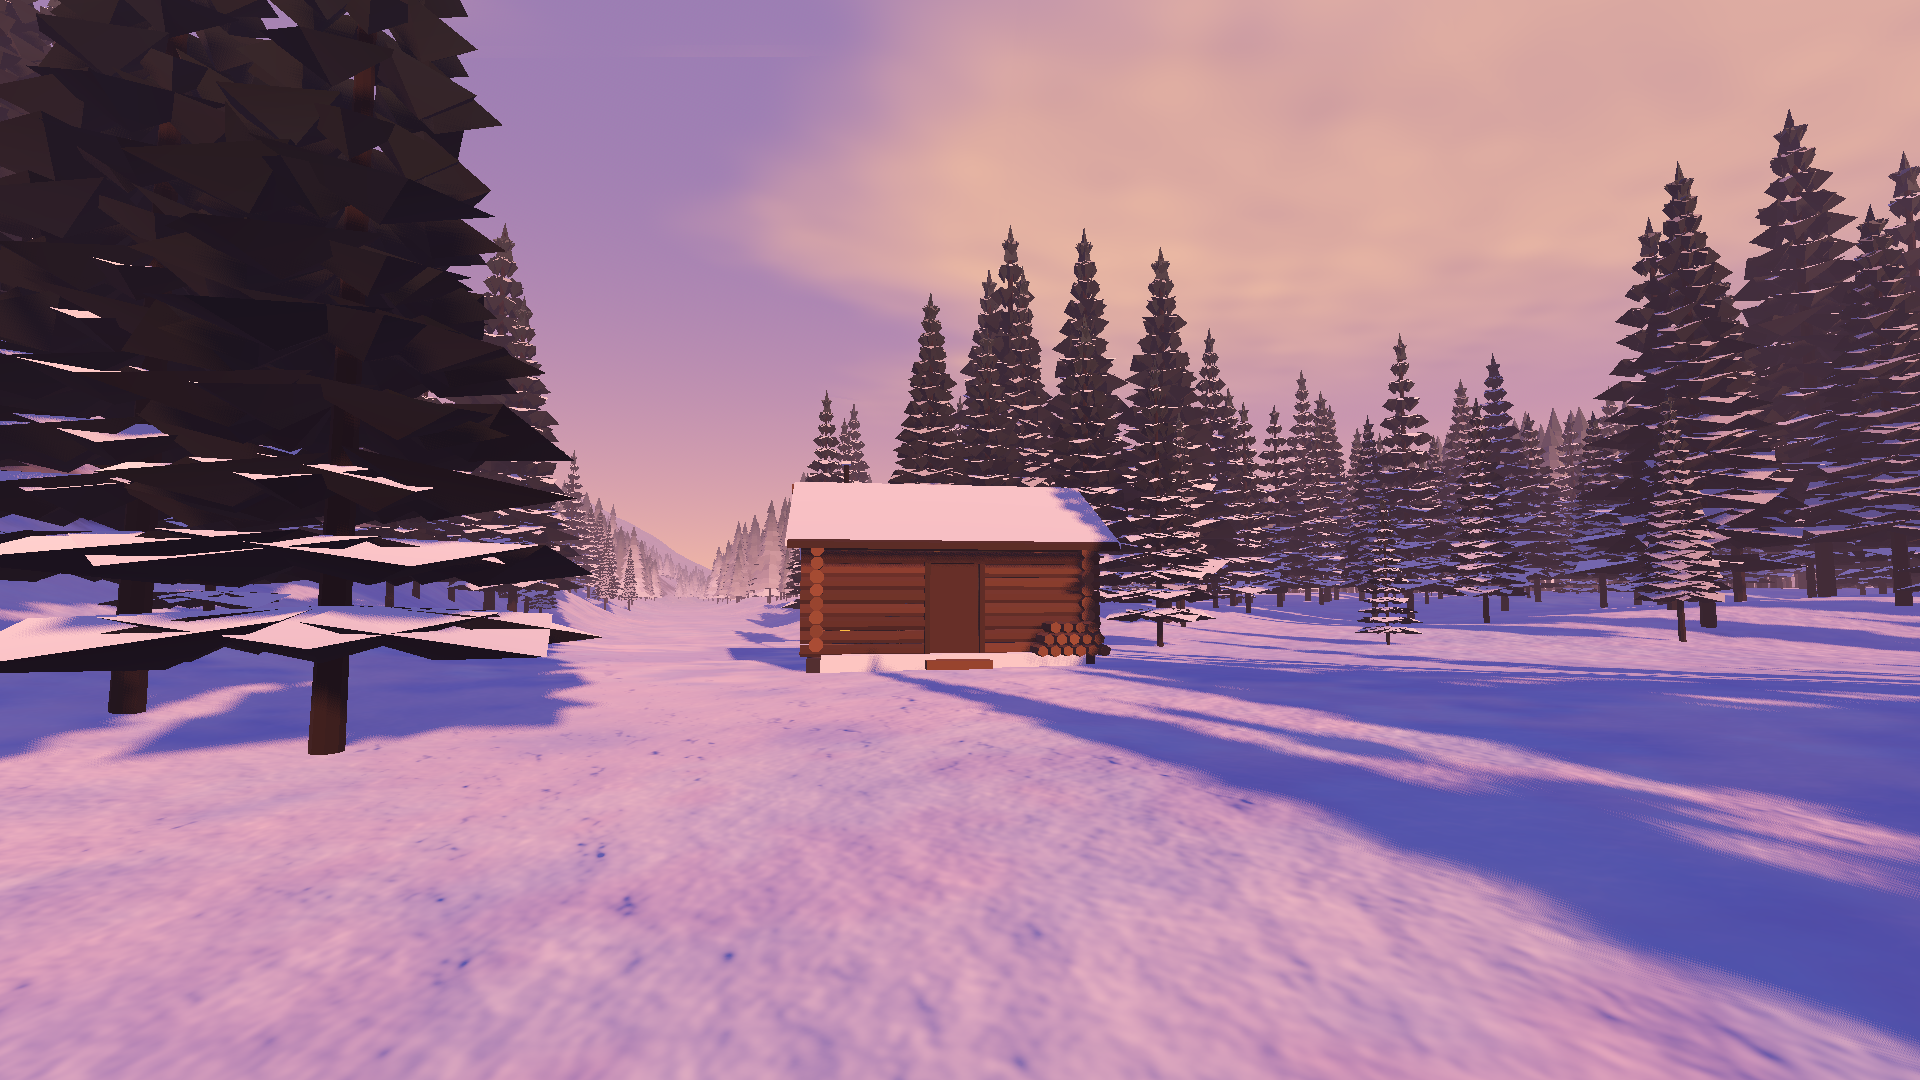
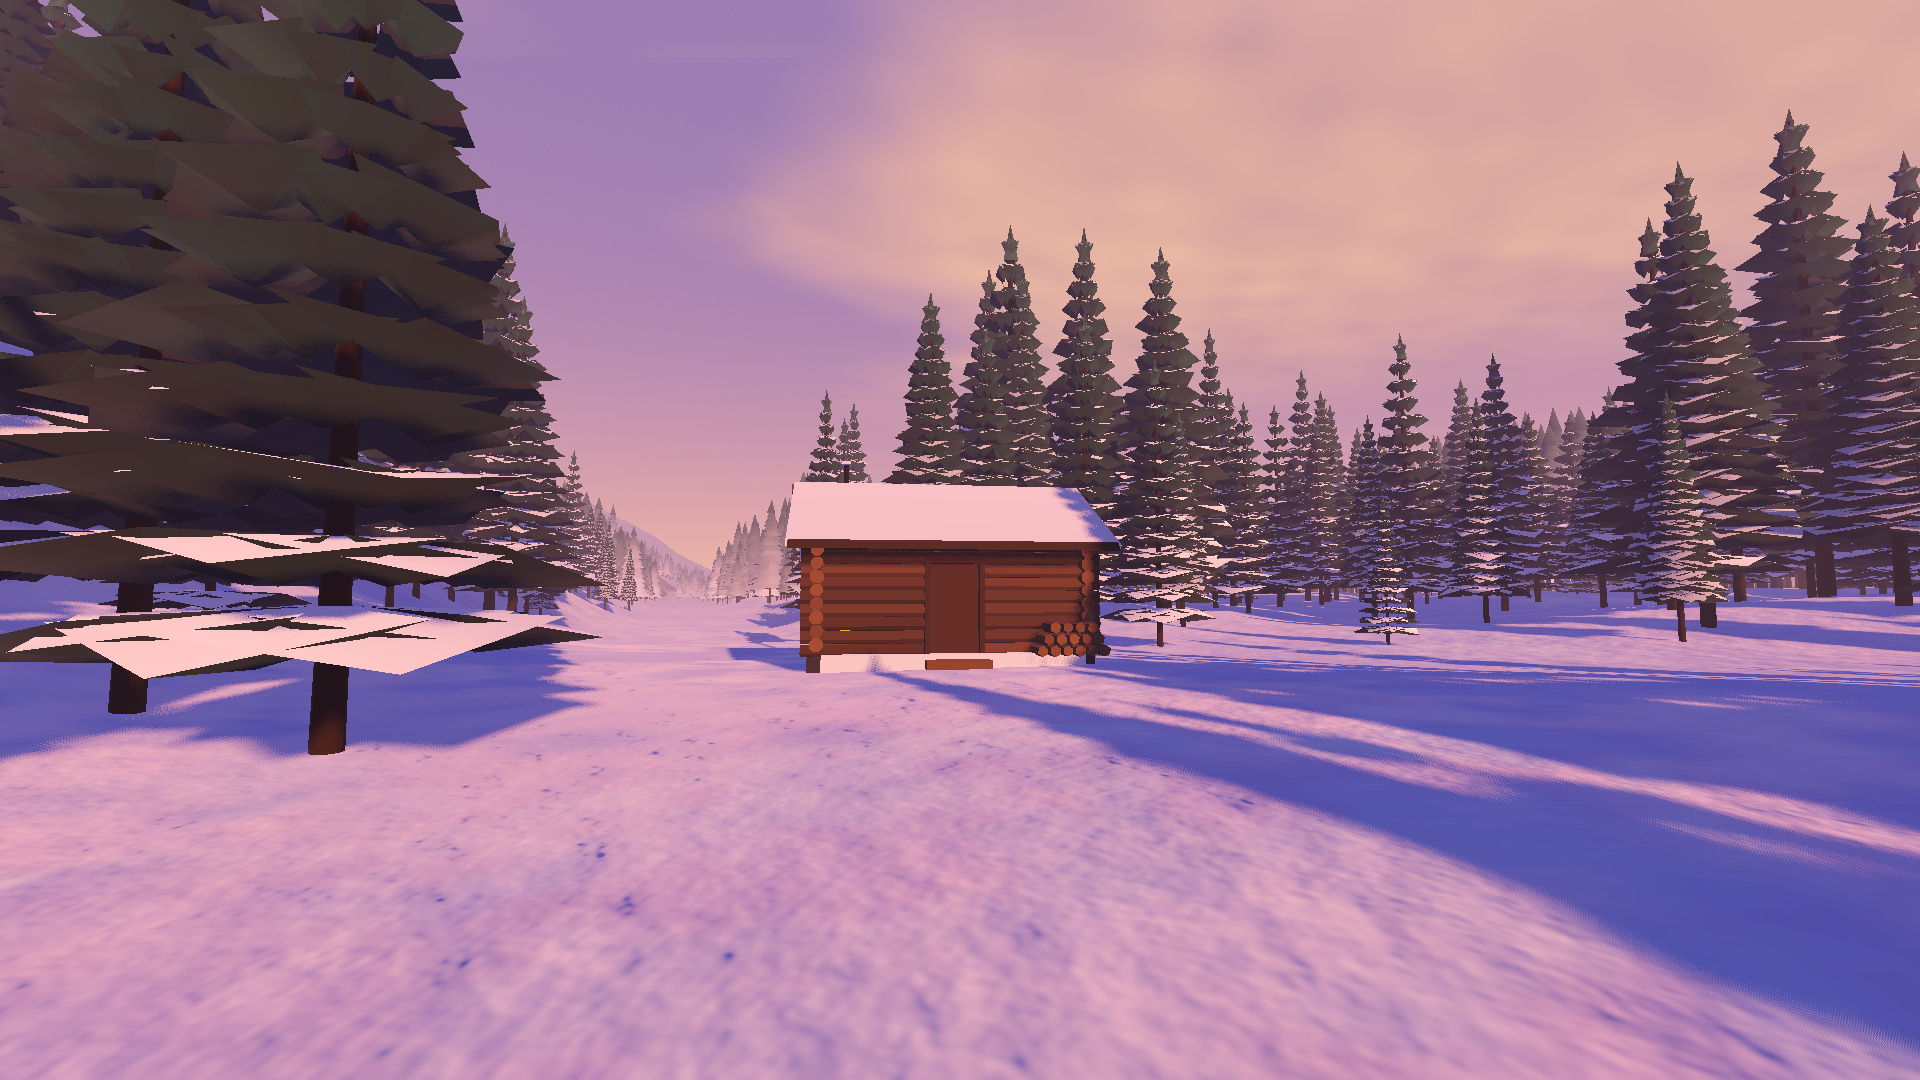
Art pass 1: conifer soft volume normals, bluer greens, textured bark; refreshed menu backdrop
Claude-Session: https://claude.ai/code/session_01KouGuuUMDCHbn74VPHDbhr

diff --git a/tools/blender/gen_conifer.py b/tools/blender/gen_conifer.py
@@ -19,10 +19,32 @@ VARIANTS = {
     "spruce_b": dict(seed=23, tiers=20, base_r=0.13, droop=0.20, trunk_h=0.20, snow=0.45),
     "spruce_c": dict(seed=37, tiers=14, base_r=0.17, droop=0.12, trunk_h=0.13, snow=0.70),
 }
-GREEN_DARK = (0.07, 0.10, 0.15, 1.0)
-GREEN_MID = (0.10, 0.19, 0.20, 1.0)
+GREEN_DARK = (0.05, 0.13, 0.15, 1.0)
+GREEN_MID = (0.08, 0.24, 0.22, 1.0)
 SNOW = (0.86, 0.90, 0.97, 1.0)
-BARK = (0.10, 0.075, 0.06, 1.0)
+BARK = (0.20, 0.135, 0.095, 1.0)
+
+
+def bark_color(co):
+    a = math.atan2(co.y, co.x)
+    k = 0.78 + 0.22 * math.sin(co.z * 70.0 + a * 4.0) * math.sin(a * 7.0 + co.z * 11.0)
+    k *= 1.0 - 0.35 * max(0.0, 1.0 - co.z * 6.0) * 0.0
+    return (BARK[0] * k, BARK[1] * k, BARK[2] * k, 1.0)
+
+
+def soft_normals(mesh):
+    ns = []
+    for i, v in enumerate(mesh.vertices):
+        r = math.hypot(v.co.x, v.co.y)
+        if i < 16:
+            n = Vector((v.co.x, v.co.y, 0.0)) if r > 1e-6 else Vector((0, 0, 1))
+        else:
+            w = min(1.0, r / 0.03)
+            n = Vector((v.co.x / max(r, 1e-6) * 0.8 * w, v.co.y / max(r, 1e-6) * 0.8 * w, 0.6 + 0.4 * (1 - w)))
+        ns.append(n.normalized())
+    for p in mesh.polygons:
+        p.use_smooth = True
+    mesh.normals_split_custom_set_from_vertices(ns)
 
 
 def clear():
@@ -72,7 +94,7 @@ def build(name, seed, tiers, base_r, droop, snow, trunk_h=0.1):
         n = f.normal
         for loop in f.loops:
             if fi < n_trunk:
-                c = BARK
+                c = bark_color(loop.vert.co)
             else:
                 h = min(max(loop.vert.co.z, 0.0), 1.0)
                 base = tuple(GREEN_DARK[k] * (1 - h) + GREEN_MID[k] * h for k in range(4))
@@ -86,8 +108,7 @@ def build(name, seed, tiers, base_r, droop, snow, trunk_h=0.1):
     if mesh.color_attributes:
         mesh.color_attributes.active_color = mesh.color_attributes[0]
         mesh.color_attributes.render_color_index = 0
-    for p in mesh.polygons:
-        p.use_smooth = False
+    soft_normals(mesh)
     obj = bpy.data.objects.new(name, mesh)
     bpy.context.collection.objects.link(obj)
     return obj
@@ -107,7 +128,7 @@ def build_near(name, seed, tiers, base_r, droop, snow, trunk_h=0.1):
         f = t / max(tiers - 1, 1)
         z = trunk_h + f * (0.94 - trunk_h)
         reach = base_r * 1.0 * (1.0 - f) ** 0.85 + 0.015
-        nb = 9 if f < 0.5 else 7
+        nb = 11 if f < 0.5 else 8
         phase = rng.random() * 6.283
         for b in range(nb):
             a = phase + 2 * math.pi * b / nb + rng.uniform(-0.25, 0.25)
@@ -139,7 +160,7 @@ def build_near(name, seed, tiers, base_r, droop, snow, trunk_h=0.1):
         n = f.normal
         for loop in f.loops:
             if fi < n_trunk:
-                c = BARK
+                c = bark_color(loop.vert.co)
             else:
                 hh = min(max(loop.vert.co.z, 0.0), 1.0)
                 base = tuple(GREEN_DARK[k] * (1 - hh) + GREEN_MID[k] * hh for k in range(4))
@@ -154,8 +175,7 @@ def build_near(name, seed, tiers, base_r, droop, snow, trunk_h=0.1):
     if mesh.color_attributes:
         mesh.color_attributes.active_color = mesh.color_attributes[0]
         mesh.color_attributes.render_color_index = 0
-    for p in mesh.polygons:
-        p.use_smooth = False
+    soft_normals(mesh)
     obj = bpy.data.objects.new(name, mesh)
     bpy.context.collection.objects.link(obj)
     return obj
